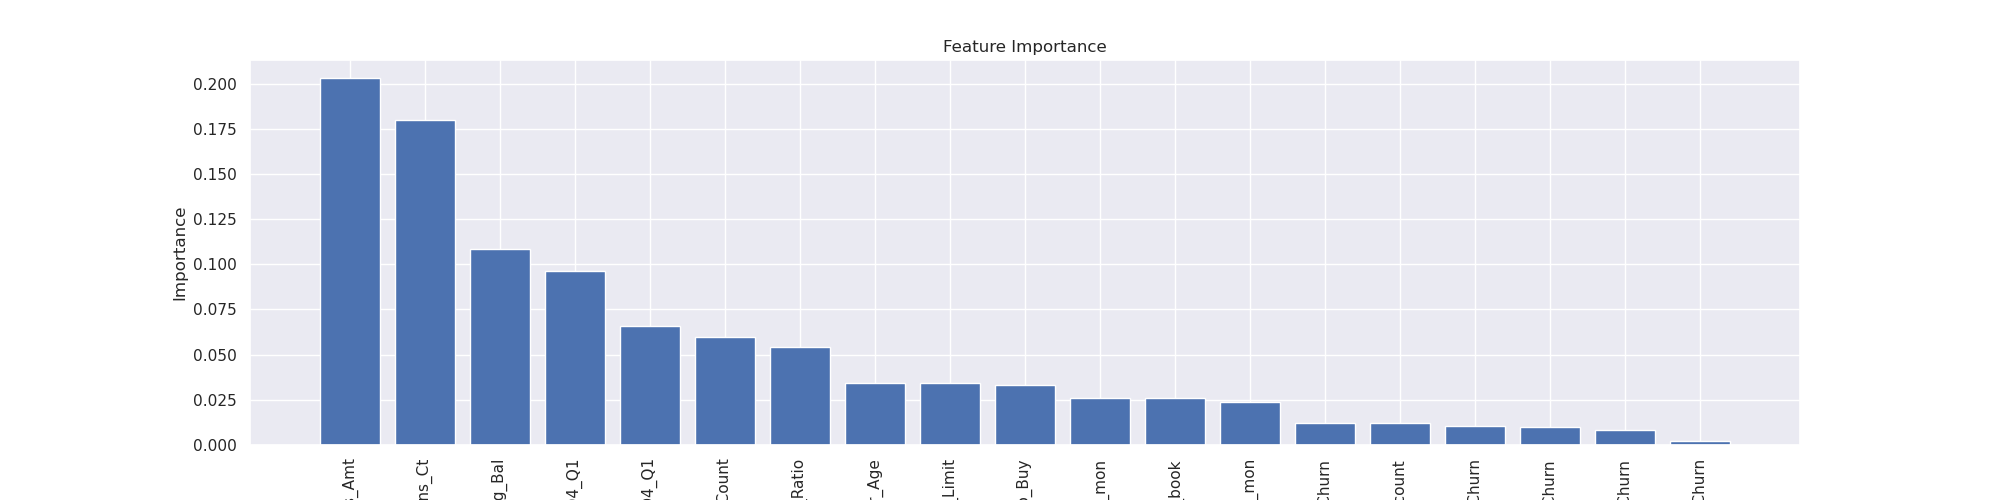
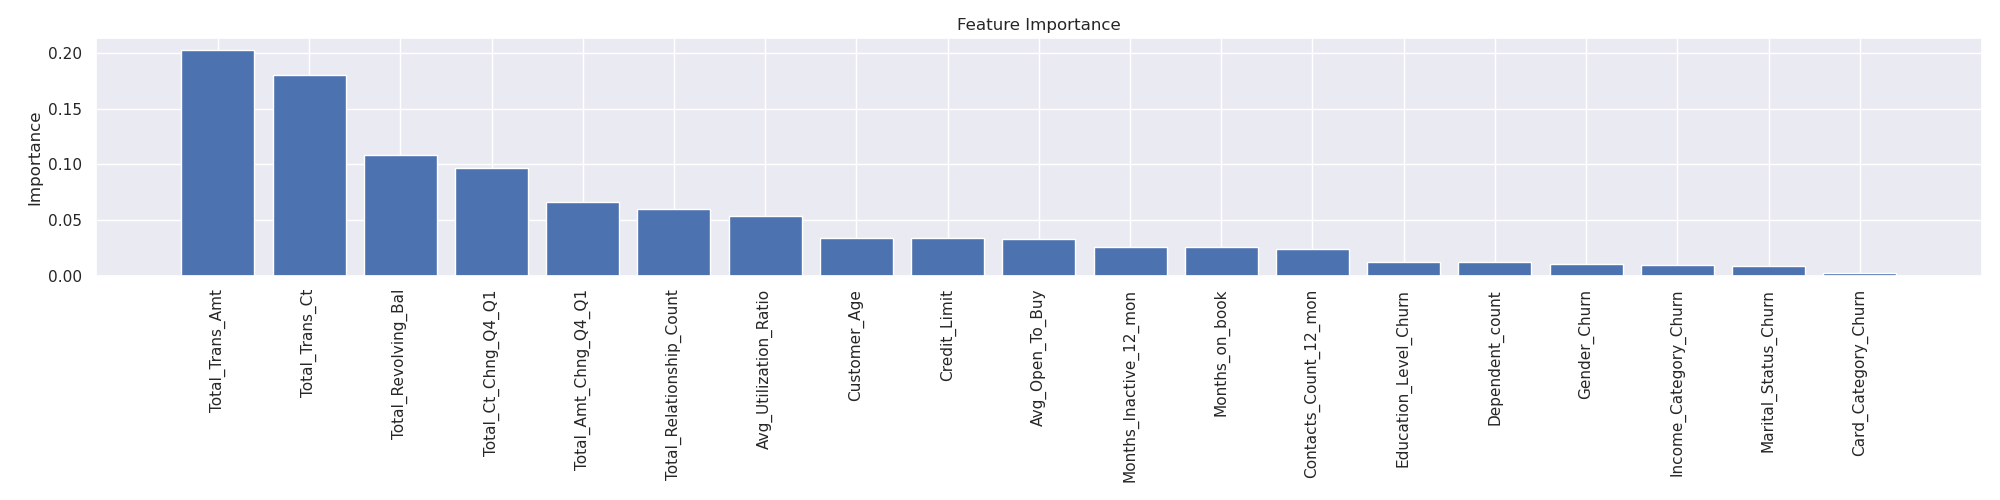
Corrected fig plotting, testing script working with 10 score using pylint

diff --git a/predict_customer_churn/churn_script_logging_and_tests.py b/predict_customer_churn/churn_script_logging_and_tests.py
@@ -1,63 +1,157 @@
+"""
+Test functions and logging for churn library
+churn.
+
+Author: Yuri Marca
+Date: November 14th, 2024
+"""
+
+
 import os
 import logging
-import churn_library_solution as cls
+from churn_library import ChurnLibrarySolution
 
 logging.basicConfig(
     filename='./logs/churn_library.log',
-    level = logging.INFO,
+    level=logging.INFO,
     filemode='w',
     format='%(name)s - %(levelname)s - %(message)s')
 
+
 def test_import(import_data):
-	'''
-	test data import - this example is completed for you to assist with the other test functions
-	'''
-	try:
-		df = import_data("./data/bank_data.csv")
-		logging.info("Testing import_data: SUCCESS")
-	except FileNotFoundError as err:
-		logging.error("Testing import_eda: The file wasn't found")
-		raise err
+    '''
+    Test data import function.
+    '''
+    try:
+        df = import_data("./data/bank_data.csv")
+        logging.info("Testing import_data: SUCCESS")
+    except FileNotFoundError as err:
+        logging.error("Testing import_data: The file wasn't found")
+        raise err
 
-	try:
-		assert df.shape[0] > 0
-		assert df.shape[1] > 0
-	except AssertionError as err:
-		logging.error("Testing import_data: The file doesn't appear to have rows and columns")
-		raise err
-
-
-def test_eda(perform_eda):
-	'''
-	test perform eda function
-	'''
+    try:
+        assert df.shape[0] > 0
+        assert df.shape[1] > 0
+        logging.info("Testing import_data: DataFrame has valid shape")
+    except AssertionError as err:
+        logging.error("Testing import_data: The file doesn't" +
+                      " have rows and columns")
+        raise err
 
 
-def test_encoder_helper(encoder_helper):
-	'''
-	test encoder helper
-	'''
+def test_eda(perform_eda, df):
+    '''
+    Test perform_eda function.
+    '''
+    try:
+        perform_eda(df)
+        assert os.path.isfile('./images/eda/churn_dist.png')
+        assert os.path.isfile('./images/eda/customer_age_dist.png')
+        assert os.path.isfile('./images/eda/marital_status_dist.png')
+        assert os.path.isfile('./images/eda/total_trans_count_dist.png')
+        logging.info("Testing perform_eda: SUCCESS")
+    except AssertionError as err:
+        logging.error("Testing perform_eda: EDA files were not" +
+                      " created as expected")
+        raise err
+    except Exception as err:
+        logging.error("Testing perform_eda: An error occurred - %s",
+                                                                err)
+        raise err
 
 
-def test_perform_feature_engineering(perform_feature_engineering):
-	'''
-	test perform_feature_engineering
-	'''
+def test_encoder_helper(encoder_helper, df):
+    '''
+    Test encoder helper function.
+    '''
+    try:
+        category_lst = ['Gender', 'Education_Level', 'Marital_Status',
+                        'Income_Category', 'Card_Category']
+        df = encoder_helper(df, category_lst)
+
+        for category in category_lst:
+            assert f"{category}_Churn" in df.columns
+        logging.info("Testing encoder_helper: SUCCESS")
+    except AssertionError as err:
+        logging.error("Testing encoder_helper: Not all encoded " + \
+                        "columns are present in the DataFrame")
+        raise err
+    except Exception as err:
+        logging.error("Testing encoder_helper: An error occurred - %s",
+                                                                    err)
+        raise err
 
 
-def test_train_models(train_models):
-	'''
-	test train_models
-	'''
+def test_perform_feature_engineering(perform_feature_engineering, df):
+    '''
+    Test perform_feature_engineering function.
+    '''
+    try:
+        features_train, features_test, target_train, \
+                        target_test = perform_feature_engineering(df)
+
+        assert len(features_train) > 0
+        assert len(features_test) > 0
+        assert len(target_train) > 0
+        assert len(target_test) > 0
+        logging.info("Testing perform_feature_engineering: SUCCESS")
+    except AssertionError as err:
+        logging.error(
+            "Testing perform_feature_engineering: Data splitting " + \
+                "failed, no data in train/test splits")
+        raise err
+    except Exception as err:
+        logging.error(
+            "Testing perform_feature_engineering: Error - %s", err)
+        raise err
+
+
+def test_train_models(
+        train_models,
+        features_train,
+        features_test,
+        target_train,
+        target_test):
+    '''
+    Test train_models function.
+    '''
+    try:
+        train_models(features_train, features_test,
+                        target_train, target_test)
+
+        assert os.path.isfile('./models/rfc_model.pkl')
+        assert os.path.isfile('./models/logistic_model.pkl')
+        assert os.path.isfile('./images/results/roc_curve_result.png')
+        logging.info("Testing train_models: SUCCESS")
+    except AssertionError as err:
+        logging.error(
+            "Testing train_models: Model files or evaluation images "+ \
+            "not found after training")
+        raise err
+    except Exception as err:
+        logging.error("Testing train_models: An error occurred - %s",
+                                                                    err)
+        raise err
 
 
 if __name__ == "__main__":
-	pass
+    cls = ChurnLibrarySolution()
 
+    # Test data import
+    test_import(cls.import_data)
+    DF = cls.import_data("./data/bank_data.csv")
 
+    # Test perform_eda
+    test_eda(cls.perform_eda, DF)
 
+    # Test encoder_helper
+    test_encoder_helper(cls.encoder_helper, DF)
 
+    # Test perform_feature_engineering
+    training_split = cls.perform_feature_engineering(DF)
 
+    test_perform_feature_engineering(cls.perform_feature_engineering,
+                                        DF)
 
-
-
+    # Test train_models
+    test_train_models(cls.train_models,*training_split)

diff --git a/predict_customer_churn/churn_library.py b/predict_customer_churn/churn_library.py
@@ -260,6 +260,7 @@ class ChurnLibrarySolution:
         plt.ylabel('Importance')
         plt.bar(range(features_test.shape[1]), importances[indices])
         plt.xticks(range(features_test.shape[1]), names, rotation=90)
+        plt.tight_layout()
 
         # Save the image to a file
         fig.savefig(self.img_res_folder / 'feature_importances.png')
